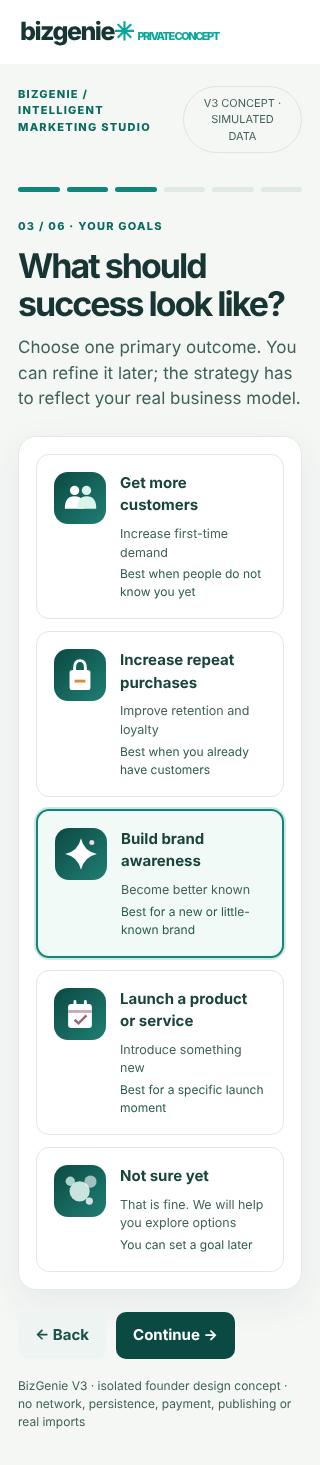
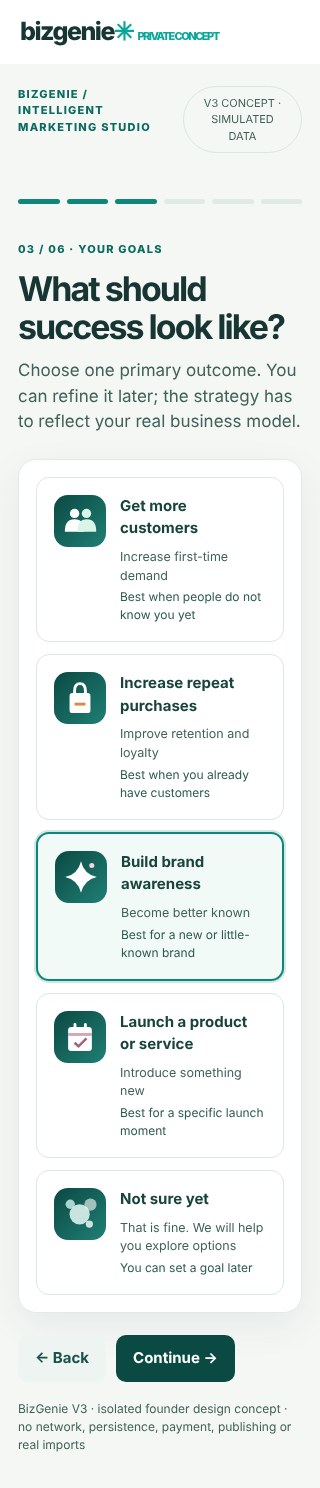
fix(studio): onboarding target sizes and selected-channel styling (PREMIUM-003 QA)
Found by scanning all six steps at 1440/768/390/320:
- completed progress buttons were 5px tall below 850px (WCAG 2.2 2.5.8);
- key-message remove buttons shrank to 22px wide when the chip wrapped;
- 10px kicker text raised to 11px;
- selected channel cards showed a doubled border.
Regression: Playwright check that every enabled interactive control on all six
steps is at least 24x24 (with a long message to force wrapping). 13/13 pass at
all four widths; axe still 0 violations; screenshots regenerated.

Claude-Session: https://claude.ai/code/session_019vXNyAy2YCNfTDvtQyRQ2k

diff --git a/studio-preview/v3/index.html b/studio-preview/v3/index.html
@@ -16,7 +16,9 @@
 .channel-grid{display:grid;grid-template-columns:repeat(2,minmax(0,1fr));gap:12px}.channel-card{border:1px solid #dce8e3;border-radius:14px;background:#fff;padding:10px;display:grid;gap:10px}.channel-card.on{border-color:#0e877a;background:#f1faf6}.channel-card .choice{border:0;background:transparent;padding:6px;min-height:0;display:flex;gap:12px;align-items:center;flex-wrap:wrap}.channel-foot{display:flex;flex-wrap:wrap;gap:8px;align-items:center}
 @media(max-width:850px){.welcome-grid,.biz-grid,.brand-grid,.goal-grid,.channel-grid{grid-template-columns:minmax(0,1fr)}.collage{grid-template-columns:repeat(3,minmax(0,1fr))}.stepbar small{display:none}}@media(max-width:520px){.collage{grid-template-columns:minmax(0,1fr)}.collage .tile{min-height:120px}}
 /* Onboarding contrast: darker text tokens (WCAG AA) for the shell and the six onboarding screens. */
-.top .overline,#onboard .overline{color:#0b6b5f}.top .pill{color:#3f6159}#onboard .muted,#onboard .intro,#onboard .truth,#onboard .choice small,#onboard .art-kicker.dark{color:#3f6159}#onboard .truth{color:#2c5a4f}main>.notice{color:#3f6159}#onboard .hero .overline,#onboard .hero p{color:#cdece4}#onboard .hero .overline{color:#8be2d2}.stepbar .seg{color:#3f6159}.stepbar small{color:#3f6159}.stepbar .current small{color:#073f39}</style></head><body><div class="mobile brand">bizgenie<span>✳</span> <span style="font-size:11px">PRIVATE CONCEPT</span></div><div class="app"><aside class="rail"><div class="brand">bizgenie<span>✳</span></div><div class="overline">Workspace preview</div><nav class="nav" aria-label="Studio sections"><button data-view="onboard" aria-pressed="true">✧ Onboarding</button><button data-view="home" aria-pressed="false">⌂ Mission Control</button><button data-view="studio" aria-pressed="false">▣ Campaign Studio</button><button data-view="calendar" aria-pressed="false">▦ Content Calendar</button></nav><footer>PRIVATE DESIGN CONCEPT<br>NO LIVE CUSTOMER DATA</footer></aside><main class="main"><div class="top"><div class="overline">BIZGENIE / INTELLIGENT MARKETING STUDIO</div><div class="pill">V3 CONCEPT · SIMULATED DATA</div></div>
+.top .overline,#onboard .overline{color:#0b6b5f}.top .pill{color:#3f6159}#onboard .muted,#onboard .intro,#onboard .truth,#onboard .choice small,#onboard .art-kicker.dark{color:#3f6159}#onboard .truth{color:#2c5a4f}main>.notice{color:#3f6159}#onboard .hero .overline,#onboard .hero p{color:#cdece4}#onboard .hero .overline{color:#8be2d2}.stepbar .seg{color:#3f6159}.stepbar small{color:#3f6159}.stepbar .current small{color:#073f39}
+/* Target size (WCAG 2.2 AA 2.5.8, min 24px) and selected-channel polish. */
+.stepbar .seg{padding:10px 0;min-height:28px;align-content:center}.chip-x{flex:none;min-width:28px;width:28px;height:28px}.art-kicker,.collage .art-kicker{font-size:11px}.channel-card .choice[aria-pressed=true]{border:0;box-shadow:none;background:transparent}</style></head><body><div class="mobile brand">bizgenie<span>✳</span> <span style="font-size:11px">PRIVATE CONCEPT</span></div><div class="app"><aside class="rail"><div class="brand">bizgenie<span>✳</span></div><div class="overline">Workspace preview</div><nav class="nav" aria-label="Studio sections"><button data-view="onboard" aria-pressed="true">✧ Onboarding</button><button data-view="home" aria-pressed="false">⌂ Mission Control</button><button data-view="studio" aria-pressed="false">▣ Campaign Studio</button><button data-view="calendar" aria-pressed="false">▦ Content Calendar</button></nav><footer>PRIVATE DESIGN CONCEPT<br>NO LIVE CUSTOMER DATA</footer></aside><main class="main"><div class="top"><div class="overline">BIZGENIE / INTELLIGENT MARKETING STUDIO</div><div class="pill">V3 CONCEPT · SIMULATED DATA</div></div>
 <section class="screen active" id="onboard"><div class="stepbar" id="stepbar"></div><div id="step-content"></div><div class="actions"><button class="btn alt" id="back">← Back</button><button class="btn" id="next">Continue →</button></div></section>
 <section class="screen" id="home"><div class="v5-header"><div><div class="overline">MISSION CONTROL / FONZO DESIGN PROOF</div><h1>Your growth plan for Fonzo.</h1><p class="muted">An editorial marketing command centre, with campaign-first decisions and next actions.</p></div><span class="pill">DESIGN FIXTURE · NO LIVE DATA</span></div><div class="v5-hero"><div class="v5-hero-copy"><div class="v5-eyebrow">✳ YOUR FEATURED CAMPAIGN · CONCEPT</div><h2>Zero sugar.<br>Big flavour.<br><em>Every day.</em></h2><p>Discover the campaign direction, inspect its creative and review channel fit before approval.</p><button class="btn v5-mint" data-view="studio">Explore campaign concepts ↗</button></div><div class="v5-product-scene" aria-label="Illustrative stylised Fonzo beverage cans, not official packaging artwork"><div class="v5-glow"></div><div class="v5-can can-blue"><div class="v5-rim"></div><div class="v5-brand">FONZO</div><small>BLUE RASPBERRY</small><span>ZERO SUGAR</span></div><div class="v5-can can-pink"><div class="v5-rim"></div><div class="v5-brand">FONZO</div><small>CHERRY COLA</small><span>ZERO SUGAR</span></div><div class="v5-can can-orange"><div class="v5-rim"></div><div class="v5-brand">FONZO</div><small>MANGO</small><span>ZERO SUGAR</span></div><div class="v5-bubbles">✦ &nbsp; ✧ &nbsp; ✦</div></div><div class="v5-hero-status"><small>CAMPAIGN WORKSPACE</small><strong>Fonzo Launch</strong><p>Illustrative creative direction</p><div class="v5-progress"><i></i></div><small>Concept review · no generated assets</small><div class="v5-social"><span>◎ Instagram</span><span>▶ TikTok</span><span>f Facebook</span></div></div></div><div class="v5-kpis"><div class="panel"><small>Potential reach · example</small><strong>128.4K</strong><span>Illustrative only</span><div class="v5-spark">▂ ▄ ▃ ▅ ▆ ▄ ▇ █</div></div><div class="panel"><small>Engagement · example</small><strong>12.6K</strong><span>Illustrative only</span><div class="v5-spark purple">▁ ▂ ▅ ▄ ▆ ▅ ▇ █</div></div><div class="panel"><small>Link clicks · example</small><strong>3.4K</strong><span>Illustrative only</span><div class="v5-spark orange">▂ ▃ ▄ ▂ ▅ ▆ ▅ █</div></div><div class="panel"><small>Conversions · example</small><strong>842</strong><span>Illustrative only</span><div class="v5-spark blue">▁ ▂ ▃ ▅ ▄ ▆ ▇ █</div></div></div><div class="v5-workspace"><div class="v5-left"><div class="panel"><div class="v5-panel-heading"><div><div class="overline">CAMPAIGN STUDIO</div><h2>Creative worth reviewing.</h2></div><button class="btn ghost" data-view="studio">View concepts →</button></div><div class="v5-feature"><div class="v5-feature-copy"><small>FEATURED CONCEPT</small><h3>Big flavour.<br>Bold first impression.</h3><p>Three channel directions, one coherent brand story.</p></div><div class="v5-feature-can">FONZO</div></div><div class="v5-thumbs"><div><div class="v5-thumb teal">✦</div><strong>Hero video</strong><small>TikTok · concept</small></div><div><div class="v5-thumb coral">F</div><strong>Lifestyle post</strong><small>Instagram · concept</small></div><div><div class="v5-thumb lavender">✳</div><strong>Product story</strong><small>Facebook · concept</small></div></div></div><div class="panel"><div class="v5-panel-heading"><h2>Recommended next steps</h2><span class="pill">FOUNDER REVIEW</span></div><div class="v5-actions"><button data-view="studio"><b>✳</b>Review creative<small>Inspect the three concepts</small></button><button data-view="onboard"><b>◇</b>Refine Brand Brain<small>Verify business identity</small></button><button data-view="calendar"><b>▦</b>Plan content<small>Illustrative schedule</small></button></div></div></div><div class="v5-right"><div class="panel"><div class="v5-panel-heading"><h2>Channel outlook</h2><span class="pill">SAMPLE ONLY</span></div><p class="muted">An illustrative comparison—not connected analytics.</p><div class="v5-chart"><div style="--h:78%;--c:#f03887"><i></i><span>Instagram</span></div><div style="--h:96%;--c:#1bbed3"><i></i><span>TikTok</span></div><div style="--h:54%;--c:#267bea"><i></i><span>Facebook</span></div><div style="--h:39%;--c:#9b71dd"><i></i><span>LinkedIn</span></div><div style="--h:48%;--c:#47b997"><i></i><span>Email</span></div></div></div><div class="panel"><div class="v5-panel-heading"><h2>Upcoming content</h2><button class="btn ghost" data-view="calendar">Calendar →</button></div><div class="v5-schedule"><div><b>03</b><span>◎</span><p><strong>Brand story</strong><small>Instagram · Draft</small></p><em>Review</em></div><div><b>04</b><span>▶</span><p><strong>Behind the flavour</strong><small>TikTok · Draft</small></p><em>Review</em></div><div><b>05</b><span>f</span><p><strong>Product discovery</strong><small>Facebook · Draft</small></p><em>Review</em></div></div></div></div></div><p class="notice">Premium UI design proof only. All campaigns, visuals, dates, performance and channel states are illustrative. No customer accounts are connected, and no content is generated or published.</p></section><section class="screen" id="studio"><div class="overline">CAMPAIGN STUDIO / CONCEPT</div><h1>Make every campaign feel like your brand.</h1><p class="intro muted">Business-relevant creative directions, channel adaptations and clear approval stages—not generic content for every industry.</p><div class="layout"><div class="panel"><h2>Creative directions</h2><div class="section-head"><label class="field" style="margin:0">Industry proof fixture<select id="industry-fixture" aria-label="Choose example industry"><option value="charity">Charity & community</option><option value="takeaway">Independent takeaway</option><option value="beverage">Beverage brand</option><option value="aesthetics">Aesthetics clinic</option></select></label><span class="pill">Concepts · not generated</span></div><div class="creative-v4" id="fixture-posts" aria-live="polite"></div><p class="notice">Original CSS/SVG-style illustration concepts. No actual customer photos, platform connections or generated campaign assets.</p></div><div class="panel"><div class="overline">AI STRATEGY · DEMONSTRATION</div><h2>Why these directions?</h2><p class="muted">They illustrate three transferable marketing mechanisms: awareness, evidence and action. Suitability depends on the business, its permissions, claims and commercial objective.</p><div class="task"><div><strong>Evidence status</strong><small>Hypothesis — requires business validation</small></div><span class="flag">Review</span></div><div class="task" style="margin-top:12px"><div><strong>Publishing status</strong><small>No connected accounts or live publishing</small></div><span class="flag">Draft</span></div><div class="actions"><button class="btn" data-view="calendar">Plan in calendar →</button></div></div></div></section>
 <section class="screen" id="calendar"><div class="overline">CONTENT CALENDAR / CONCEPT</div><h1>A clear view of what's coming next.</h1><p class="intro muted">Plan, review and coordinate content across channels. This sample calendar contains no real scheduled posts.</p><div class="panel"><div style="display:flex;justify-content:space-between;gap:12px;align-items:center;margin-bottom:22px"><h2>October · illustrative plan</h2><span class="pill">Draft concepts only</span></div><div class="calendar" id="calendar-grid"></div><p class="notice">All items are fixtures. No posts, reminders or external connections are created.</p></div></section>
